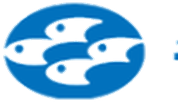
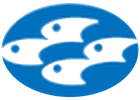
fix: 로고 잔여 아티팩트 제거 및 물고기 선명화, 상단 다운로드 중복 바 제거(행 선택 다운로드 유지)

diff --git a/app.py b/app.py
@@ -1267,34 +1267,6 @@ with tab1:
     disp_cols = [c for c in col_order if c in filtered_df.columns]
     table_df = filtered_df[disp_cols]
 
-    # 원본 파일이 첨부된 설문 빠른 1클릭 자동 다운로드 바
-    surveys_with_files = filtered_df[filtered_df["첨부파일"].notna() & (filtered_df["첨부파일"].astype(str).str.strip() != "")]
-    if len(surveys_with_files) > 0:
-        st.markdown("##### 📥 설문지 원본 자동 다운로드 (버튼 클릭 시 PC로 즉시 저장)")
-        q_cols = st.columns(min(len(surveys_with_files), 3))
-        for i, (_, row_item) in enumerate(surveys_with_files.iterrows()):
-            f_orig = str(row_item["첨부파일"]).strip()
-            real_path = find_upload_file(f_orig)
-            if real_path and os.path.exists(real_path):
-                with open(real_path, "rb") as f_quick:
-                    f_q_bytes = f_quick.read()
-                col_i = i % len(q_cols)
-                client_name = str(row_item['발주사'])
-                proj_name = str(row_item['공사명'])
-                proj_short = proj_name[:14] + "..." if len(proj_name) > 14 else proj_name
-                with q_cols[col_i]:
-                    m_type_q = "image/png" if f_orig.lower().endswith(".png") else "application/pdf" if f_orig.lower().endswith(".pdf") else "image/jpeg"
-                    st.download_button(
-                        label=f"📥 [{client_name}]\n{proj_short}",
-                        data=f_q_bytes,
-                        file_name=f_orig,
-                        mime=m_type_q,
-                        key=f"auto_dl_quick_{i}_{f_orig}",
-                        use_container_width=True,
-                        help=f"클릭 즉시 '{f_orig}' 파일이 PC 다운로드 폴더로 자동 저장됩니다."
-                    )
-        st.write("")
-
     if len(filtered_df) > 0:
         st.caption("💡 **행(Row) 클릭 안내**: 특정 줄(행)을 마우스로 클릭하면 해당 건의 **원본 설문지 자동 다운로드** 및 **삭제 버튼**이 활성화됩니다.")
 
@@ -1312,7 +1284,7 @@ with tab1:
                 "설문지 원본": st.column_config.TextColumn(
                     "설문지 원본",
                     width="small",
-                    help="첨부파일 보관 상태입니다. 위 자동 다운로드 버튼을 누르거나 행을 클릭하면 원본이 PC로 자동 다운로드됩니다."
+                    help="첨부파일 보관 여부입니다. 해당 행을 마우스로 클릭하면 원본 설문지 다운로드 버튼이 활성화됩니다."
                 ),
                 "계약기간": st.column_config.TextColumn("계약기간", width="medium"),
                 "담당자소속": st.column_config.TextColumn("담당자소속", width="small"),
